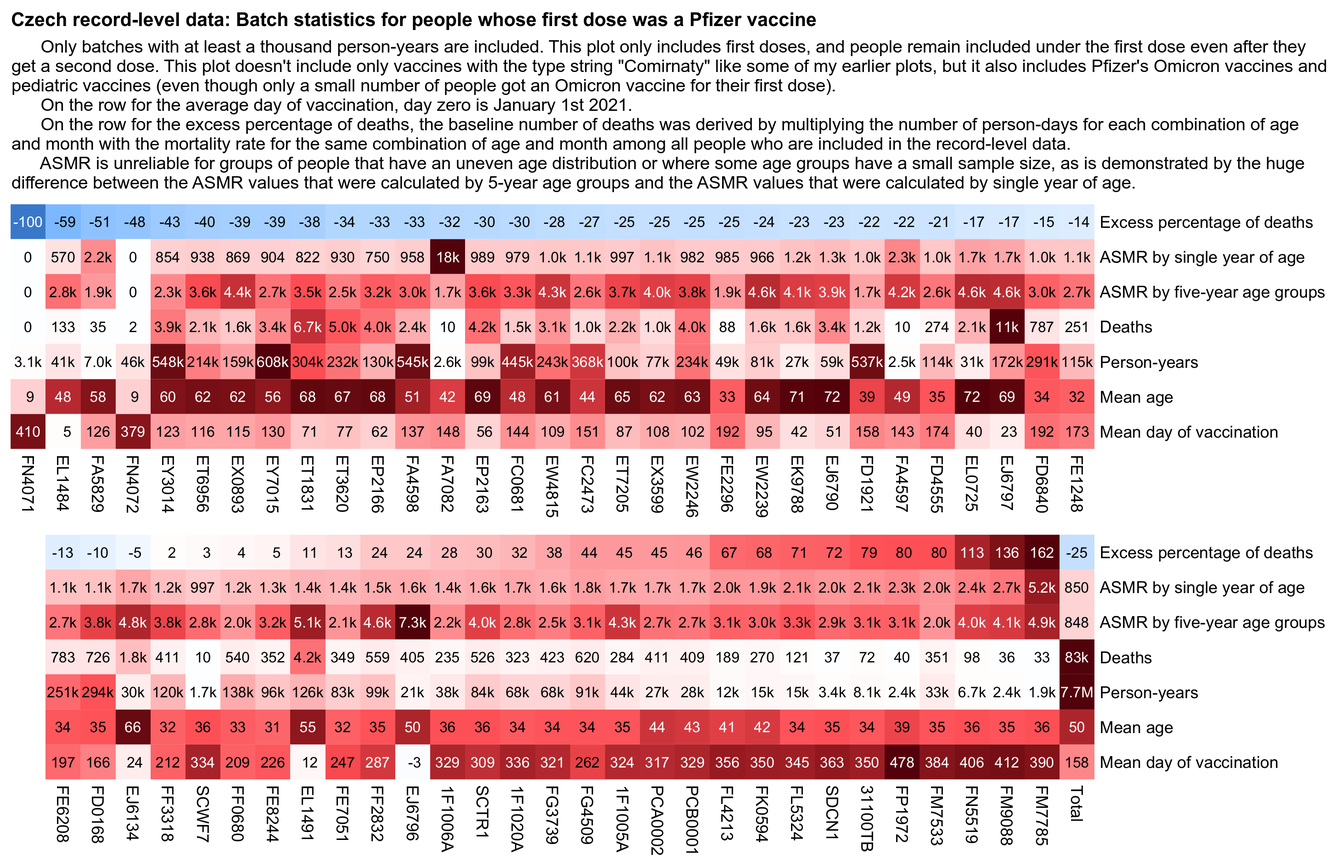
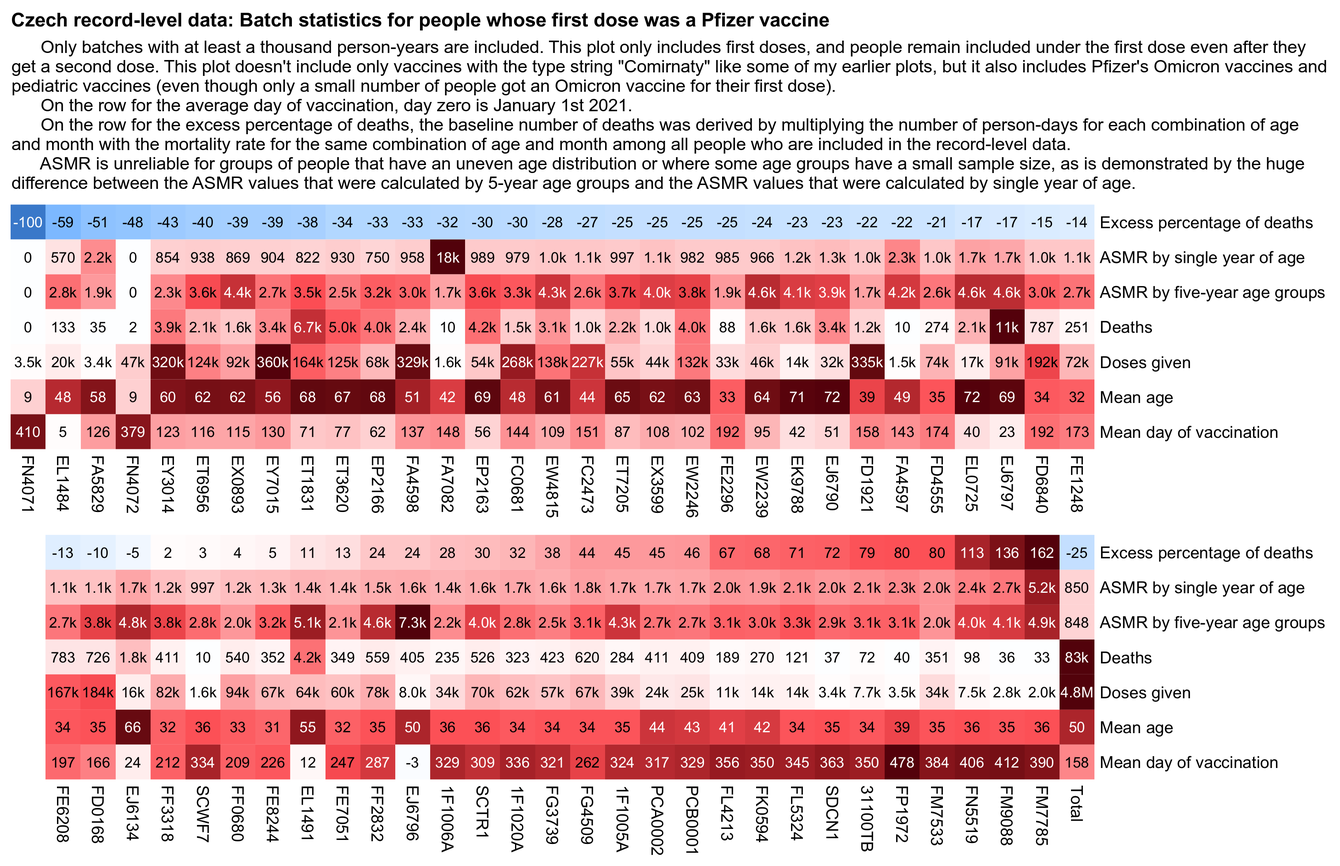
a

diff --git a/czech.html b/czech.html
@@ -83,9 +83,10 @@ blockquote blockquote blockquote,blockquote blockquote .quote,blockquote .quote 
 <li><a href=#Table_for_percentage_of_different_vaccine_types_given_each_month>Table for percentage of different vaccine types given each month</a></li>
 <li><a href=#Kirschs_calculation_for_increase_in_all_cause_mortality>Kirsch's calculation for increase in all-cause mortality</a></li>
 <li><a href=#Hospitalizations_peaked_in_2022_in_youngest_age_groups>Hospitalizations peaked in 2022 in youngest age groups</a></li>
-<li><a href=#Moderna_Pfizer_ratio_in_ages_70_79_in_fourth_quarter_of_2021>Moderna-Pfizer ratio in ages 70-79 in fourth quarter of 2021</a></li>
+<li><a href=#Moderna_Pfizer_ratio_in_ages_70_79_in_the_fourth_quarter_of_2021>Moderna-Pfizer ratio in ages 70-79 in the fourth quarter of 2021</a></li>
 <li><a href=#Triangle_plot_of_Moderna_Pfizer_ratio>Triangle plot of Moderna-Pfizer ratio</a></li>
 <li><a href=#Stacked_plot_of_multiple_variables_from_record_level_data_and_Czech_MoH_data>Stacked plot of multiple variables from record-level data and Czech MoH data</a></li>
+<li><a href=#Correlation_coefficients_between_variables_from_record_level_data_and_Czech_MoH_data>Correlation coefficients between variables from record-level data and Czech MoH data</a></li>
 <li><a href=#Excess_mortality_by_weeks_after_vaccination>Excess mortality by weeks after vaccination</a></li>
 <li><a href=#Excess_CMR_percent_in_vaccinated_people_relative_to_unvaccinated_people>Excess CMR percent in vaccinated people relative to unvaccinated people</a></li>
 <li><a href=#Statistics_by_batch>Statistics by batch</a></li>
@@ -118,11 +119,11 @@ blockquote blockquote blockquote,blockquote blockquote .quote,blockquote .quote 
 <li><a href=f/czweeklydead.csv>f/czweeklydead.csv</a> (119 kiB): Weekly number of deaths by 5-year age groups published by the <a href=https://vdb.czso.cz/vdbvo2/faces/en/index.jsf?page=vystup-objekt-parametry&pvo=DEMD007KR-R2024&sp=A&skupId=3629&pvokc=&katalog=30845&z=T>Czech Statistical Bureau</a>.</li>
 <li><a href=f/czdeadproj.csv>f/czdeadproj.csv</a> (4 MiB): Daily projected deaths by 5-year age groups derived from a seasonality-adjusted linear trend in CMR in 2010-2019 multiplied by population size. Also includes daily deaths by 5-year age groups interpolated from weekly deaths by 5-year age groups and daily population estimates by 5-year age groups interpolated from Eurostat's yearly population estimates.</li>
 </ul>
-<p>COVID data published by the <a href=https://onemocneni-aktualne.mzcr.cz/api/v2/covid-19>Czech ministry of health</a>:</p>
+<p>COVID data published by the <a href=https://onemocneni-aktualne.mzcr.cz/api/rv2/covid-19>Czech Ministry of Health</a>:</p>
 <ul>
 <li><a href="https://onemocneni-aktualne.mzcr.cz/api/v2/covid-19/umrti.csv">https://onemocneni-aktualne.mzcr.cz/api/v2/covid-19/umrti.csv</a> (3 MiB): COVID deaths by day and single year of age.</li>
 <li><a href="https://onemocneni-aktualne.mzcr.cz/api/v2/covid-19/nakazeni-hospitalizace-testy.csv">https://onemocneni-aktualne.mzcr.cz/api/v2/covid-19/nakazeni-hospitalizace-testy.csv</a> (34 MiB): Tests, hospitalizations, and cases by age group. This file only has the number of new PCR tests performed but it's missing the number of positive PCR tests.</li>
-<li><a href="https://onemocneni-aktualne.mzcr.cz/api/v2/covid-19/testy-pcr-antigenni.csv">https://onemocneni-aktualne.mzcr.cz/api/v2/covid-19/testy-pcr-antigenni.csv</a> (159 kiB): PCR and antigen testing data including the number of positive PCR tests by day, but not grouped by age.</li>
+<li><a href="https://onemocneni-aktualne.mzcr.cz/api/v2/covid-19/testy-pcr-antigenni.csv">https://onemocneni-aktualne.mzcr.cz/api/v2/covid-19/testy-pcr-antigenni.csv</a> (159 kiB): PCR and antigen testing data which doesn't include age groups but which does include the number of positive PCR tests by day.</li>
 </ul>
 <h2>
 <a href=#Were_Pfizer_and_Moderna_vaccines_allocated_randomly id=Were_Pfizer_and_Moderna_vaccines_allocated_randomly>Were Pfizer and Moderna vaccines allocated randomly?</a>
@@ -514,7 +515,7 @@ pheatmap::pheatmap(m,filename=&quot;i1.png&quot;,display_numbers=disp,
   border_color=NA,na_col=&quot;white&quot;,
   number_color=ifelse((abs(m)&gt;.55*maxcolor)&amp;!is.na(m),&quot;white&quot;,&quot;black&quot;),
   breaks=seq(-maxcolor,maxcolor,,256),
-  colorRampPalette(hsv(rep(c(7/12,0),4:3),c(.9,.75,.6,.3,0,.3,.6,.75,.9),c(.4,.65,1,1,1,1,1,.65,.4)))(256))
+  colorRampPalette(hsv(rep(c(7/12,0),5:4),c(.9,.75,.6,.3,0,.3,.6,.75,.9),c(.4,.65,1,1,1,1,1,.65,.4)))(256))
 
 exp2=.6;mpop=mpop^exp2;maxcolor2=max(mpop[-nrow(m),-ncol(m)])
 
@@ -1308,7 +1309,7 @@ system(paste0(&quot;w=`identify -format %w i1.png`;pad=44;convert -gravity north
 <div class="width6">
 <img src="i/czech-facet-asmr.png">
 </div>
-<p>The Czech ministry of health has published CSV files for COVID deaths and hospitalizations by age: <a href="https://onemocneni-aktualne.mzcr.cz/api/v2/covid-19">https://onemocneni-aktualne.mzcr.cz/api/v2/covid-19</a>. Both COVID deaths and hospitalizations also have similar three-hump pattern as all-cause deaths, and in ages 80+ the first hump is the highest and the third hump is the lowest, but in ages 60-79 and 40-59 the third hump is higher than the first hump:</p>
+<p>The Czech Ministry of Health has published CSV files for COVID deaths and hospitalizations by age: <a href="https://onemocneni-aktualne.mzcr.cz/api/v2/covid-19">https://onemocneni-aktualne.mzcr.cz/api/v2/covid-19</a>. Both COVID deaths and hospitalizations also have similar three-hump pattern as all-cause deaths, and in ages 80+ the first hump is the highest and the third hump is the lowest, but in ages 60-79 and 40-59 the third hump is higher than the first hump:</p>
 <div class="width6">
 <img src="i/czech-facet-hosp.png">
 </div>
@@ -1569,7 +1570,7 @@ month      0 10 20 30 40 50 60 70 80 90 100 Total
 <h2>
 <a href=#Hospitalizations_peaked_in_2022_in_youngest_age_groups id=Hospitalizations_peaked_in_2022_in_youngest_age_groups>Hospitalizations peaked in 2022 in youngest age groups</a>
 </h2>
-<p>The Czech ministry of health has published data for hospitalizations by age: <a href="https://onemocneni-aktualne.mzcr.cz/api/v2/covid-19">https://onemocneni-aktualne.mzcr.cz/api/v2/covid-19</a>. In ages 0-11, 12-17, and 18-29, the highest peak in COVID hospitalizations was in early 2022, which might be because people the youngest age groups were less likely to be vaccinated in 2022 than older age groups:</p>
+<p>The Czech Ministry of Health has published data for hospitalizations by age: <a href="https://onemocneni-aktualne.mzcr.cz/api/v2/covid-19">https://onemocneni-aktualne.mzcr.cz/api/v2/covid-19</a>. In ages 0-11, 12-17, and 18-29, the highest peak in COVID hospitalizations was in early 2022, which might be because people the youngest age groups were less likely to be vaccinated in 2022 than older age groups:</p>
 <div class="width6">
 <img src="i/czech-facetbig.png">
 </div>
@@ -1620,7 +1621,7 @@ pheatmap::pheatmap(m2,filename=&quot;i2.png&quot;,display_numbers=ifelse(is.na(m
 
 system(&quot;w=`identify -format %w i1.png`;pad=44;convert -gravity northwest -pointsize 42 -font Arial \\( -splice x24 -size $[w-pad]x caption:&#39;Percentage of deaths with underlying cause COVID-19 out of all COVID deaths in age group in 2020-2024 (CDC WONDER)&#39; -extent $[w-pad]x -gravity center \\) i1.png -gravity northwest \\( -size $[w-40]x caption:&#39;Percentage of deaths with underlying cause COVID-19 out of deaths from all causes the same month (CDC WONDER)&#39; -extent $[w-pad]x -gravity center \\) i2.png -append 1.png&quot;)</pre>
 <h2>
-<a href=#Moderna_Pfizer_ratio_in_ages_70_79_in_fourth_quarter_of_2021 id=Moderna_Pfizer_ratio_in_ages_70_79_in_fourth_quarter_of_2021>Moderna-Pfizer ratio in ages 70-79 in fourth quarter of 2021</a>
+<a href=#Moderna_Pfizer_ratio_in_ages_70_79_in_the_fourth_quarter_of_2021 id=Moderna_Pfizer_ratio_in_ages_70_79_in_the_fourth_quarter_of_2021>Moderna-Pfizer ratio in ages 70-79 in the fourth quarter of 2021</a>
 </h2>
 <p>When I pointed out to Kirsch that my ratio of Pfizer ASMR to Moderna ASMR fell below 1.0 in people who were vaccinated in October 2021, November 2021, and March 2022, he posted these replies: [<a href="https://x.com/stkirsch/status/1812183059405635603">https://x.com/stkirsch/status/1812183059405635603</a>]</p>
 <blockquote>
@@ -1842,6 +1843,84 @@ theme(axis.text=element_text(size=7,color=&quot;black&quot;),
   strip.text=element_blank())
 ggsave(&quot;1.png&quot;,width=3.3,height=4.7,dpi=450)</pre>
 <h2>
+<a href=#Correlation_coefficients_between_variables_from_record_level_data_and_Czech_MoH_data id=Correlation_coefficients_between_variables_from_record_level_data_and_Czech_MoH_data>Correlation coefficients between variables from record-level data and Czech MoH data</a>
+</h2>
+<p>The plot below shows a daily correlation of the ±10-day moving averages for different daily variables in 2021 to 2022. The correlation between new vaccine doses and deaths is around zero. But the correlation between COVID hospitalizations and all-cause deaths is about 0.94. So if a large part of the excess deaths were caused by vaccines, then why were the deaths concentrated during distinct periods of time that also had a high number of hospitalizations for COVID?</p>
+<div class="width6">
+<img src="i/czech-cor.png">
+</div>
+<p>In the plot above PCR positivity rate gets an unusually poor correlation with all-cause deaths, but it's because half of the data is in 2022 when there's high PCR positivity but low mortality (which is the typical pattern in the Omicron era all over the world). However the correlation between PCR positivity and total deaths increased from about 0.30 to about 0.45 when I looked at data from 2020-2022 instead, and it further increased to about 0.94 when I looked at data from 2020-2021:</p>
+<div class="width12">
+<img src="i/czech-cor-2.png">
+</div>
+<pre>download.file(&quot;https://onemocneni-aktualne.mzcr.cz/api/v2/covid-19/nakazeni-hospitalizace-testy.csv&quot;,&quot;nakazeni-hospitalizace-testy.csv&quot;)
+download.file(&quot;https://onemocneni-aktualne.mzcr.cz/api/v2/covid-19/umrti.csv&quot;,&quot;umrti.csv&quot;)
+download.file(&quot;https://onemocneni-aktualne.mzcr.cz/api/v2/covid-19/testy-pcr-antigenni.csv&quot;,&quot;testy-pcr-antigenni.csv&quot;)
+download.file(&quot;http://sars2.net/f/czbucketsdaily.csv.gz&quot;,&quot;czbucketsdaily.csv.gz&quot;)
+download.file(&quot;http://sars2.net/f/czcensus2021pop.csv&quot;,&quot;czcensus2021pop.csv&quot;)
+
+library(data.table);library(ggplot2)
+
+ma=\(x,b=1,f=b){x[]=rowMeans(embed(c(rep(NA,b),x,rep(NA,f)),f+b+1),na.rm=T);x}
+ua=\(x,y,...){u=unique(x);y(u,...)[match(x,u)]}
+age=\(x,y){class(x)=class(y)=NULL;(y-x-(y-789)%/%1461+(x-789)%/%1461)%/%365}
+
+xstart=as.Date(&quot;2021-01-01&quot;);xend=as.Date(&quot;2022-12-31&quot;)
+
+rec=fread(&quot;Czech/data/CR_records.csv&quot;,showProgress=F)
+p=rec[!is.na(DatumUmrti),.(dead=.N),.(date=DatumUmrti,type=as.numeric(!is.na(Datum_1))+1)]
+p=rbind(p,p[,.(dead=sum(dead),type=0),date])
+p=dcast(p,date~paste0(&quot;dead&quot;,type),value.var=&quot;dead&quot;)
+
+k=grep(&quot;Datum_&quot;,names(rec))
+p=merge(p,data.table(date=as.IDate(unlist(rec[,..k],use.names=F)))[!is.na(date)][,.(vax=.N),date],all=T)
+
+std=fread(&quot;czcensus2021pop.csv&quot;)$pop
+buck=fread(&quot;czbucketsdaily.csv.gz&quot;)
+buck=rbind(buck,cbind(expand.grid(date=as.IDate(xstart:xend),age=0:100,dose=unique(buck$dose)),alive=0,dead=0))|&gt;unique(by=1:3)
+asmrtot=buck[,.(dead=sum(dead),alive=sum(alive),type=0),.(date,age)][alive&gt;=1e3]
+asmr=rbind(asmrtot,buck[,.(dead=sum(dead),alive=sum(alive)),.(date,age,type=as.integer(dose&gt;=1)+1)])
+asmr=asmr[alive&gt;=1e3,.(asmr=sum(dead/alive*std[pmin(age,100)+1]/sum(std)*365e5)),.(date,type)]
+p=merge(p,dcast(asmr,date~paste0(&quot;asmr&quot;,type),value.var=&quot;asmr&quot;))
+
+testy=fread(&quot;nakazeni-hospitalizace-testy.csv&quot;,na.strings=&quot;-&quot;)
+testy=testy[,.(tests=sum(provedene_testy,na.rm=T),cases=sum(potvrzene_pripady,na.rm=T),hosp=sum(nove_hospitalizace,na.rm=T)),.(date=datum)]
+p=merge(p,testy[,.(date,hosp,cases)],all=T)
+
+pcr=fread(&quot;testy-pcr-antigenni.csv&quot;)
+p=merge(p,pcr[,.(pcr=(PCR_pozit_sympt+PCR_pozit_asymp)/pocet_PCR_testy*100,date=datum)],all=T)
+
+p=merge(p,fread(&quot;umrti.csv&quot;)[,.(coviddead=.N),.(date=datum)],all=T)
+
+p=p[date%in%xstart:xend]
+p[is.na(p)]=0
+
+var=read.csv(text=&quot;id,name
+asmr0,Total ASMR (record-level)
+asmr1,Unvaccinated ASMR (record-level)
+asmr2,Vaccinated ASMR (record-level)
+dead0,Total deaths (record-level)
+hosp,Hospitalizations (MoH)
+coviddead,COVID deaths (MoH)
+cases,COVID cases (MoH)
+pcr,PCR positivity percent (MoH)
+vax,New vaccine doses (record-level)&quot;)
+
+pick=strsplit(&quot;asmr0,asmr1,asmr2,hosp,coviddead,cases,pcr,vax,dead0&quot;,&quot;,&quot;)[[1]]
+
+m=cor(apply(`colnames&lt;-`(p[,..pick],var$name[match(pick,var$id)]),2,ma,10))
+disp=m;disp[]=sprintf(&quot;%.2f&quot;,m)
+diag(m)=NA;diag(disp)=&quot;&quot;
+
+hc=as.hclust(reorder(as.dendrogram(hclust(dist(m))),cmdscale(dist(m),1)))
+
+pheatmap::pheatmap(m,filename=&quot;1.png&quot;,display_numbers=disp,clustering_callback=\(...)hc,
+  legend=F,cellwidth=19,cellheight=19,fontsize=9,fontsize_number=8,
+  border_color=NA,na_col=&quot;white&quot;,
+  number_color=ifelse((abs(m)&gt;.55)&amp;!is.na(m),&quot;white&quot;,&quot;black&quot;)[hc$order,hc$order],
+  breaks=seq(-1,1,,256),
+  colorRampPalette(hsv(rep(c(7/12,0),5:4),c(.9,.75,.6,.3,0,.3,.6,.75,.9),c(.4,.65,1,1,1,1,1,.65,.4)))(256))</pre>
+<h2>
 <a href=#Excess_mortality_by_weeks_after_vaccination id=Excess_mortality_by_weeks_after_vaccination>Excess mortality by weeks after vaccination</a>
 </h2>
 <p>Here I used the same method to calculate excess mortality as in earlier sections, where I calculated the expected number of deaths for each week by multiplying the person-days of each combination of age and ongoing month by the mortality rate of all people included in the record-level data for the same combination of age and ongoing month. (Except this time I calculated the baseline by 5-year age groups and not by single year of age, but it didn't make much difference in the excess mortality figures.)</p>
@@ -1913,7 +1992,8 @@ ggsave(&quot;1.png&quot;,width=4.5,height=2.6,dpi=400)</pre>
 b=fread(&quot;http://sars2.net/f/czbucketskeep.csv.gz&quot;)[dose&lt;=1&amp;month&gt;=&quot;2020-12&quot;]
 b=b[,.(dead=sum(dead),alive=sum(alive)),.(dose,age=agecut(age,seq(0,100,5)),month)]
 b=rbind(b,b[,.(dead=sum(dead),alive=sum(alive),month=&quot;Total&quot;),.(dose,age)])
-a=tapply(b$dead/b$alive,b[,1:3],c);m1=a[2,,];m2=a[1,,]
+a=tapply(b$dead/b$alive,b[,1:3],c)
+m1=a[2,,];m2=a[1,,]
 
 disp=round((m1/m2)*100)
 m=(m1-m2)/ifelse(m1&gt;m2,m2,m1)*100
@@ -1930,7 +2010,7 @@ system(&quot;w=`identify -format %w 0.png`;pad=48;convert \\( -pointsize 44 -fon
 <h2>
 <a href=#Statistics_by_batch id=Statistics_by_batch>Statistics by batch</a>
 </h2>
-<p>This generates a buckets file with an additional column for batch ID:</p>
+<p>This code generates a buckets file with an additional column for batch ID:</p>
 <pre>library(data.table)
 
 ua=\(x,fun,...){u=unique(x);fun(u,...)[match(x,u)]}
@@ -1976,48 +2056,59 @@ for(day in as.list(seq(mindate,maxdate,1))){
 
 setorder(buck,month,vaxmonth,week,age,dose,type,batch)
 fwrite(buck,&quot;czbucketsbatchkeep.csv&quot;,quote=F)</pre>
-<p>I uploaded the output here: <a href=f/czbucketsbatchkeep.csv.xz>f/czbucketsbatchkeep.csv.xz</a> (about 40 MiB). People are kept under earlier doses after a new dose.</p>
-<p>Batches with less than 100 doses are shown under the code <span class="quote">&quot;Other&quot;</span>. Vaccines from manufacturers with less than 1000 total doses are shown under <span class="quote">&quot;Other&quot;</span>. In the earlier buckets files I classified Pfizer's Omicron vaccines under the <span class="quote">&quot;Other&quot;</span> type but now I'm classifying them under Pfizer instead.</p>
-<p>The plot below shows statistics for people who got a first dose from a Pfizer vaccine. Generally batches that have a later average day of vaccination seem to have higher excess mortality. On the row for the mean date of vaccination, January 1st 2021 is day zero. The only batch with a negative mean date is EJ6796, which has a mean day of -3 which means December 29th 2020, but that batch also has fairly high excess deaths of about 24%, which might be if vulnerable groups of people were priorized to be vaccinated earliest:</p>
+<p>I uploaded the output here: <a href=f/czbucketsbatchkeep.csv.xz>f/czbucketsbatchkeep.csv.xz</a> (about 40 MiB). In the output people are kept under earlier doses even after a new dose. Batches with less than 100 doses are shown under the batch name <span class="quote">&quot;Other&quot;</span>. Vaccines from manufacturers with less than 1000 total doses are shown under <span class="quote">&quot;Other&quot;</span>. In the earlier buckets files I classified Pfizer's Omicron vaccines under the <span class="quote">&quot;Other&quot;</span> type but now I'm classifying them under Pfizer instead.</p>
+<p>The plot below shows statistics for people who got a first dose from a Pfizer vaccine. Generally batches that have a later mean day of vaccination seem to have higher excess mortality. On the row for the mean date of vaccination, January 1st 2021 is day zero. The only batch with a negative mean date is EJ6796, which has a mean date of -3 which means December 29th 2020 (but that batch also has fairly high excess deaths of about 24%, which might be if vulnerable groups of people were priorized to be vaccinated earliest). There's 15 batches with more than 15 doses given but all of the batches got below -10% excess mortality:</p>
 <div class="width11">
 <img src="i/czech-batch.png">
 </div>
-<p>In the plot above when I calculated ASMR by single year of age, the batch FA7082 got an ASMR of about 18,000 deaths per 100,000 person-years. However that's because the batch had one death but only 4 person-days for age 89, and age 89 made up about 0.19% of my standard population, so the single death added about 18,000 units to the total ASMR value (from <code>1/4*.0019*365e5</code>):</p>
+<p>In the plot above when I calculated ASMR by single year of age, the batch FA7082 got an ASMR of about 18,000 deaths per 100,000 person-years. However that's because the age 89 had one death but only 4 person-days in the batch, and age 89 made up about 0.19% of my standard population, so the single death added about 18,000 units to the total ASMR value (from <code>1/4*.0019*365e5</code>):</p>
 <pre>&gt; std=fread(&quot;http://sars2.net/f/czcensus2021pop.csv&quot;)[,pop/sum(pop)]
-&gt; system(&quot;curl -LsO sars2.net/f/czbucketsbatchkeep.csv.gz&quot;)
-&gt; b=fread(&quot;xz -dc s/f/czbucketsbatchkeep.csv.xz&quot;)[dose==1&amp;batch==&quot;FA7082&quot;]
-&gt; d=b[,.(dead=sum(dead),alive=sum(alive)),.(age=pmin(age,100))][,asmr:=dead/alive*std[age+1]*365e5]
-&gt; d[dead&gt;0]
-    age dead alive        asmr
- 1:  44    1 26242    24.08040
- 2:  63    1  9983    46.04660
- 3:  67    1  7239    63.44008
- 4:  71    1  5326    80.26433
- 5:  77    1  4457    69.38750
- 6:  79    1  2326   101.98112
- 7:  82    1  2407    67.61925
- 8:  83    1  1701    84.76822
- 9:  86    1  1685    62.20545
-10:  89    1     4 17790.17285</pre>
-<p>In my plot above the method I used to calculate the excess percentage of deaths is more reliable than ASMR in cases like these batch statistics when there is an uneven distribution of people across age groups or when some age group can occasionally have an extremely low number of person-days.</p>
+&gt; system(&quot;curl -LsO sars2.net/f/czbucketsbatchkeep.csv.xz&quot;)
+&gt; b=fread(&quot;xz -dc czbucketsbatchkeep.csv.xz&quot;)[dose==1]
+&gt; d=b[batch==&quot;FA7082&quot;,.(dead=sum(dead),alive=sum(alive)),.(age=pmin(age,100))][,asmr:=dead/alive*std[age+1]*365e5]
+&gt; print(round(d[dead&gt;0]),r=F) # show all ages with nonzero deaths
+ age dead alive  asmr
+  44    1 26242    24
+  63    1  9983    46
+  67    1  7239    63
+  71    1  5326    80
+  77    1  4457    69
+  79    1  2326   102
+  82    1  2407    68
+  83    1  1701    85
+  86    1  1685    62
+  89    1     4 17790</pre>
+<p>But when I calculated the ASMR by 5-year age groups instead, ages 85-89 now had 2 deaths and 5,000 person-days, so ages 85-89 added only about 858 units to the total ASMR value:</p>
+<pre>&gt; std2=tapply(std,0:100%/%5*5,sum)
+&gt; d2=b[batch==&quot;FA7082&quot;,.(dead=sum(dead),alive=sum(alive)),.(age=pmin(age,100)%/%5*5)][,asmr:=dead/alive*std2[factor(age)]*365e5]
+&gt; print(round(d2[dead&gt;0]),r=F)
+ age dead  alive asmr
+  40    1 108333   19
+  60    1  42891   71
+  65    1  30224   79
+  70    1  25299   91
+  75    2  20774  206
+  80    2  11081  418
+  85    2   5000  858</pre>
+<p>In my plot above the method I used to calculate the excess percentage of deaths is more reliable than ASMR. ASMR is suitable for calculating a total mortality rate among a population that has a large number of people from each age group, like the population of an entire nation, but it's not as useful in cases like these batch statistics where some age group can occasionally have an extremely low number of person-days.</p>
 <p>Here's code for making the heatmap:</p>
-<pre>kimi=\(x){e=floor(log10(ifelse(x==0,1,abs(x))));e2=pmax(e,0)%/%3+1;x[]=ifelse(abs(x)&lt;1e3,round(x),paste0(sprintf(paste0(&quot;%.&quot;,ifelse(e%%3==0,1,0),&quot;f&quot;),x/1e3^(e2-1)),c(&quot;&quot;,&quot;k&quot;,&quot;M&quot;,&quot;B&quot;,&quot;T&quot;)[e2]));x}
+<pre>download.file(&quot;http://sars2.net/f/czbucketsbatchkeep.csv.xz&quot;,&quot;czbucketsbatchkeep.csv.xz&quot;)
 
-mima=\(x)(x-min(x,na.rm=T))/(max(x,na.rm=T)-min(x,na.rm=T))
+library(data.table)
 
-std=fread(&quot;http://sars2.net/czcensus2021pop.csv&quot;)[,pop/sum(pop)]
+kimi=\(x){e=floor(log10(ifelse(x==0,1,abs(x))));e2=pmax(e,0)%/%3+1;x[]=ifelse(abs(x)&lt;1e3,round(x),paste0(sprintf(paste0(&quot;%.&quot;,ifelse(e%%3==0,1,0),&quot;f&quot;),x/1e3^(e2-1)),c(&quot;&quot;,&quot;k&quot;,&quot;M&quot;,&quot;B&quot;,&quot;T&quot;)[e2]));x}
 
-buck=fread(&quot;curl -Ls sars2.net/f/czbucketsbatchkeep.csv.xz|xz -dc&quot;)[dose&lt;=1][,age:=pmin(age,100)]
+std=fread(&quot;czcensus2021pop.csv&quot;)[,pop/sum(pop)]
+
+buck=fread(&quot;xz -dc czbucketsbatchkeep.csv.xz&quot;)[dose&lt;=1][,age:=pmin(age,100)]
 me=merge(buck[dose==1&amp;type==&quot;Pfizer&quot;&amp;batch!=&quot;&quot;],buck[,.(base=sum(dead)/sum(alive)),.(age,month)])[,base:=base*alive]
 me=me[batch%in%me[,.(alive=sum(alive)/365),batch][alive&gt;1e3,batch]]
 
 a=me[,.(alive=sum(alive),dead=sum(dead),base=sum(base)),.(batch,age)]
 a=rbind(a,a[,.(alive=sum(alive),dead=sum(dead),base=sum(base),batch=&quot;Total&quot;),age])
 
-o=a[,.(excess=(sum(dead)/sum(base)-1)*100,
-  asmr=sum(dead/alive*std[age+1]*365e5),
-  pop=sum(alive)/365,
-  dead=sum(dead),age=weighted.mean(age,alive)),batch]
+o=a[,.(excess=(sum(dead)/sum(base)-1)*100,asmr=sum(dead/alive*std[age+1]*365e5),
+  pop=sum(alive)/365,dead=sum(dead),age=weighted.mean(age,alive)),batch]
 
 asmr2=a[,age2:=age%/%5*5][,.(dead=sum(dead),alive=sum(alive)),.(batch,age2)]
 std2=tapply(std,0:100%/%5*5,sum)
@@ -2027,34 +2118,33 @@ o=data.frame(o[order(excess)],row.names=1,check.names=F)
 o=rbind(o[rownames(o)!=&quot;Total&quot;,],o[&quot;Total&quot;,])
 
 rec=fread(&quot;CR_records.csv&quot;)
-
+rec2=rec[Sarze_1%in%rownames(o)]
 vaxdate=rec[,mean(as.double(Datum_1)),Sarze_1][,setNames(V1,Sarze_1)]
-vaxdate[&quot;Total&quot;]=rec[,mean(Datum_1,na.rm=T)]
+vaxdate[&quot;Total&quot;]=rec2[,mean(Datum_1)]
 o$vaxdate=(vaxdate-as.double(as.Date(&quot;2021-1-1&quot;)))[rownames(o)]
+doses=rec2[,.N,Sarze_1][,setNames(N,Sarze_1)]
+doses[&quot;Total&quot;]=sum(doses)
+o$doses=doses[rownames(o)]
 
-disp0=round(o)
-disp0$pop=kimi(o$pop)
-disp0$dead=kimi(o$dead)
-disp0$asmr=kimi(o$asmr)
-disp0$asmr2=kimi(o$asmr2)
+disp0=kimi(as.matrix(o))
 max=apply(head(o,-1),2,max)
 max[&quot;asmr&quot;]=max[&quot;asmr2&quot;]=7e3
-
-m0=o/max[col(o)]
 
 names=read.csv(text=&quot;id,name
 excess,Excess percentage of deaths
 asmr,ASMR by single year of age
 asmr2,ASMR by five-year age groups
-pop,Person-years
+dead,Deaths
+doses,Doses given
 age,Mean age
-vaxdate,Mean day of vaccination
-dead,Deaths&quot;)
+vaxdate,Mean day of vaccination&quot;)
+
+m0=o/max[col(o)]
 m0=m0[,names$id];disp0=disp0[,names$id];colnames(m0)=names$name
 
-slices=2;cols=ceiling(nrow(m0)/slices)
+slices=2;ncol=ceiling(nrow(m0)/slices)
 for(i in 1:slices){
-  ran=((i-1)*cols+1):min(nrow(m0),i*cols)
+  ran=((i-1)*ncol+1):min(nrow(m0),i*ncol)
   m=t(m0[ran,]);disp=t(disp0[ran,])
 
   pheatmap::pheatmap(m,filename=paste0(&quot;i&quot;,i,&quot;.png&quot;),display_numbers=disp,
@@ -2066,12 +2156,12 @@ for(i in 1:slices){
 
 system(paste0(&quot;convert i{&quot;,paste(1:slices,collapse=&quot;,&quot;),&quot;}.png -shave x6 -gravity east -append 0.png&quot;))
 
-sub=&quot;\u00a0     Only batches with at least a thousand person-years are included. This plot only includes first doses, and people remain included under the first dose even after they get a second dose. This plot doesn&#39;\\&#39;&#39;t include only vaccines with the type string \&quot;Comirnaty\&quot; like some of my earlier plots, but it also includes Pfizer&#39;\\&#39;&#39;s Omicron vaccines and pediatric vaccines (even though only a small number of people got an Omicron vaccine for their first dose).
+sub=&quot;\u00a0     Only batches with at least a thousand person-years are included. This plot only includes first doses, and people remain included under the first dose even after they get a second dose. This plot doesn&#39;t include only vaccines with the type string \&quot;Comirnaty\&quot; like some of my earlier plots, but it also includes Pfizer&#39;s Omicron vaccines and pediatric vaccines (even though only a small number of people got an Omicron vaccine for their first dose).
       On the row for the average day of vaccination, day zero is January 1st 2021.
       On the row for the excess percentage of deaths, the baseline number of deaths was derived by multiplying the number of person-days for each combination of age and month with the mortality rate for the same combination of age and month among all people who are included in the record-level data.
       ASMR is unreliable for groups of people that have an uneven age distribution or where some age groups have a small sample size, as is demonstrated by the huge difference between the ASMR values that were calculated by 5-year age groups and the ASMR values that were calculated by single year of age.&quot;
 
-system(paste0(&quot;w=`identify -format %w 0.png`;pad=50;convert \\( -pointsize 44 -font Arial-Bold -size $[w-pad]x caption:&#39;Czech record-level data: Batch statistics for people whose first dose was a Pfizer vaccine&#39; \\( -gravity northwest -splice x12 -pointsize 42 -font Arial -interline-spacing -2 caption:&#39;&quot;,gsub(&quot;&#39;&quot;,&quot;&#39;\\&#39;&#39;&quot;,sub),&quot;&#39; \\) -extent $[w-pad]x -gravity center \\) \\( -gravity north 0.png -splice 0x6 \\) -append -gravity north -splice x20 1.png&quot;))</pre>
+system(paste0(&quot;w=`identify -format %w 0.png`;pad=50;convert \\( -pointsize 44 -font Arial-Bold -size $[w-pad]x caption:&#39;Czech record-level data: Batch statistics for people whose first dose was a Pfizer vaccine&#39; \\( -gravity northwest -splice x12 -pointsize 40 -font Arial -interline-spacing -2 caption:&#39;&quot;,gsub(&quot;&#39;&quot;,&quot;&#39;\\\\&#39;&#39;&quot;,sub),&quot;&#39; \\) -extent $[w-pad]x -gravity center \\) \\( -gravity north 0.png -splice 0x6 \\) -append -gravity north -splice x20 1.png&quot;))</pre>
 <script>
 let q=document.querySelectorAll('a,code,pre')
 for(let i=0;e=q[i];i++)e.innerHTML=e.innerHTML.replace(/(\w{60,})/g,x=>x.replace(/./g,"$&<wbr>")).replace(/([\041-\045\047-\057\072\075\077-\100\133-\137\173-\176])/g,"$1<wbr>")
